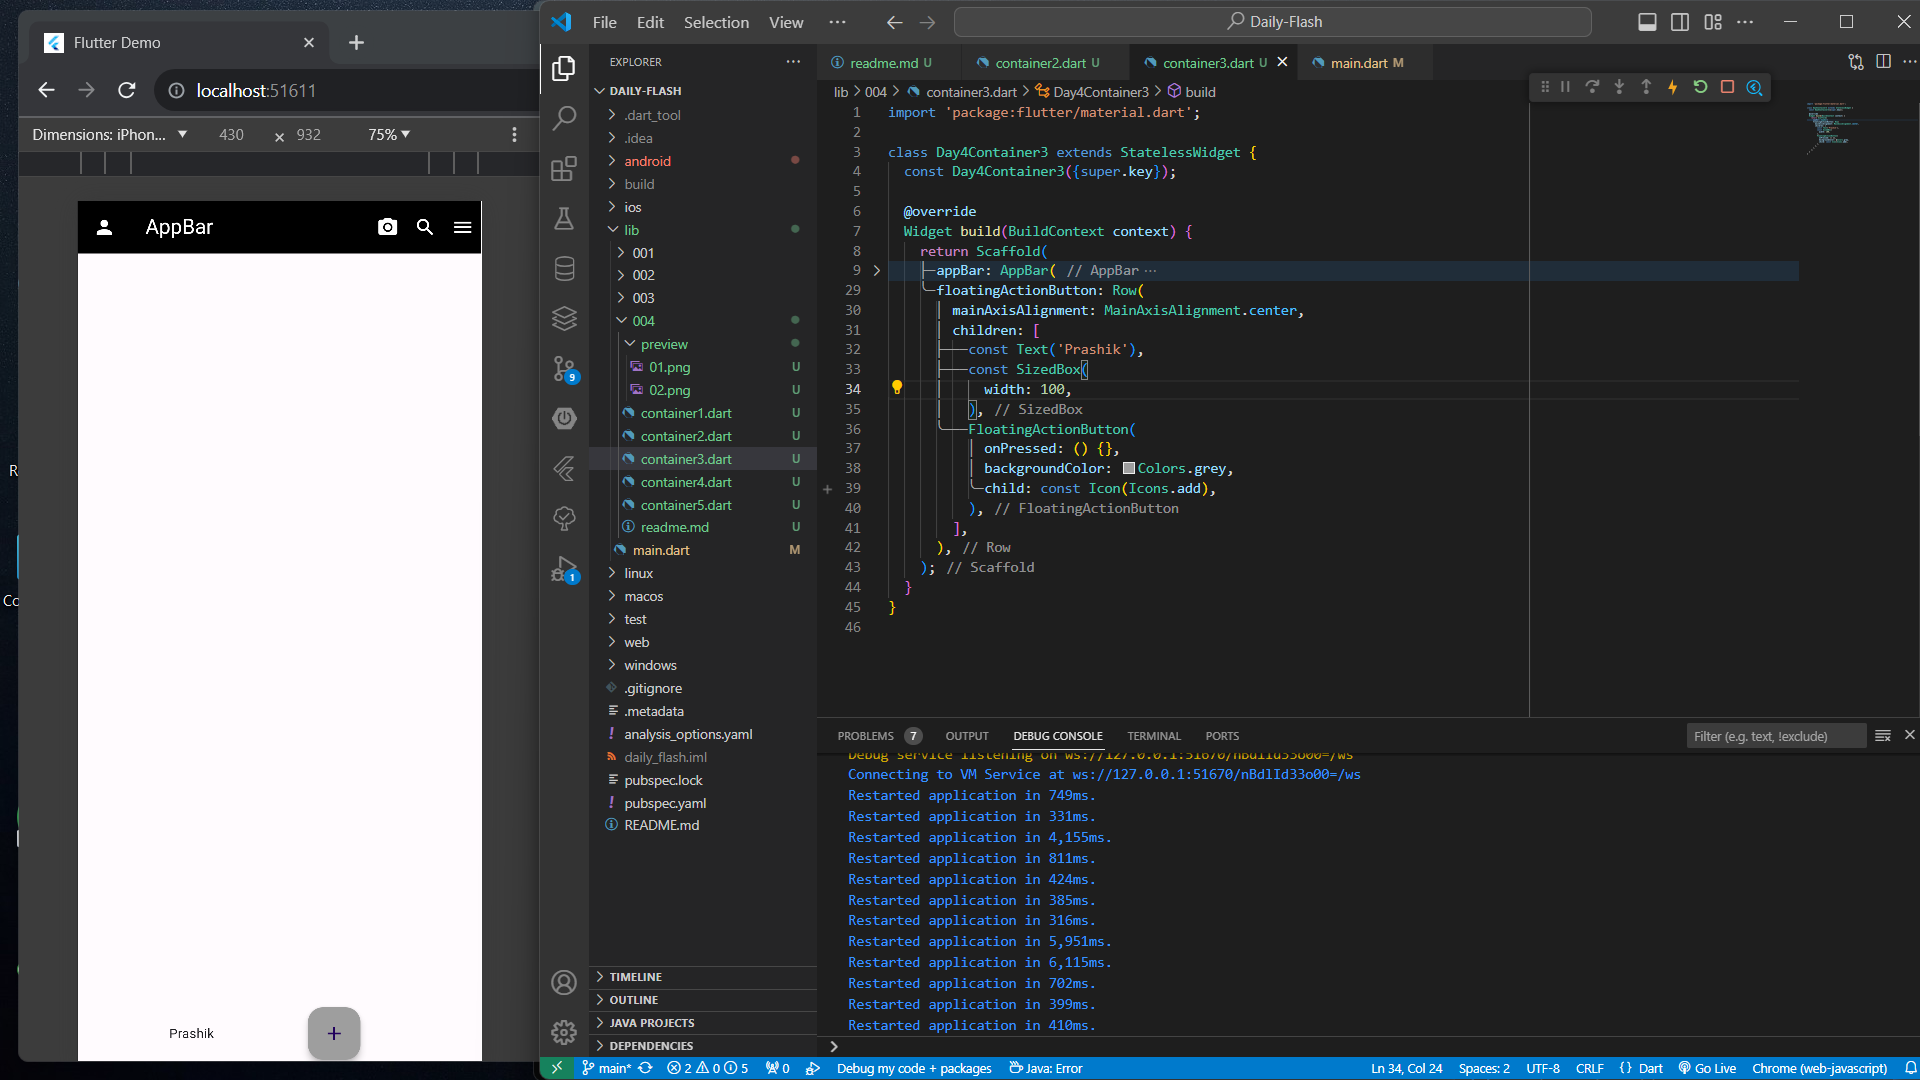
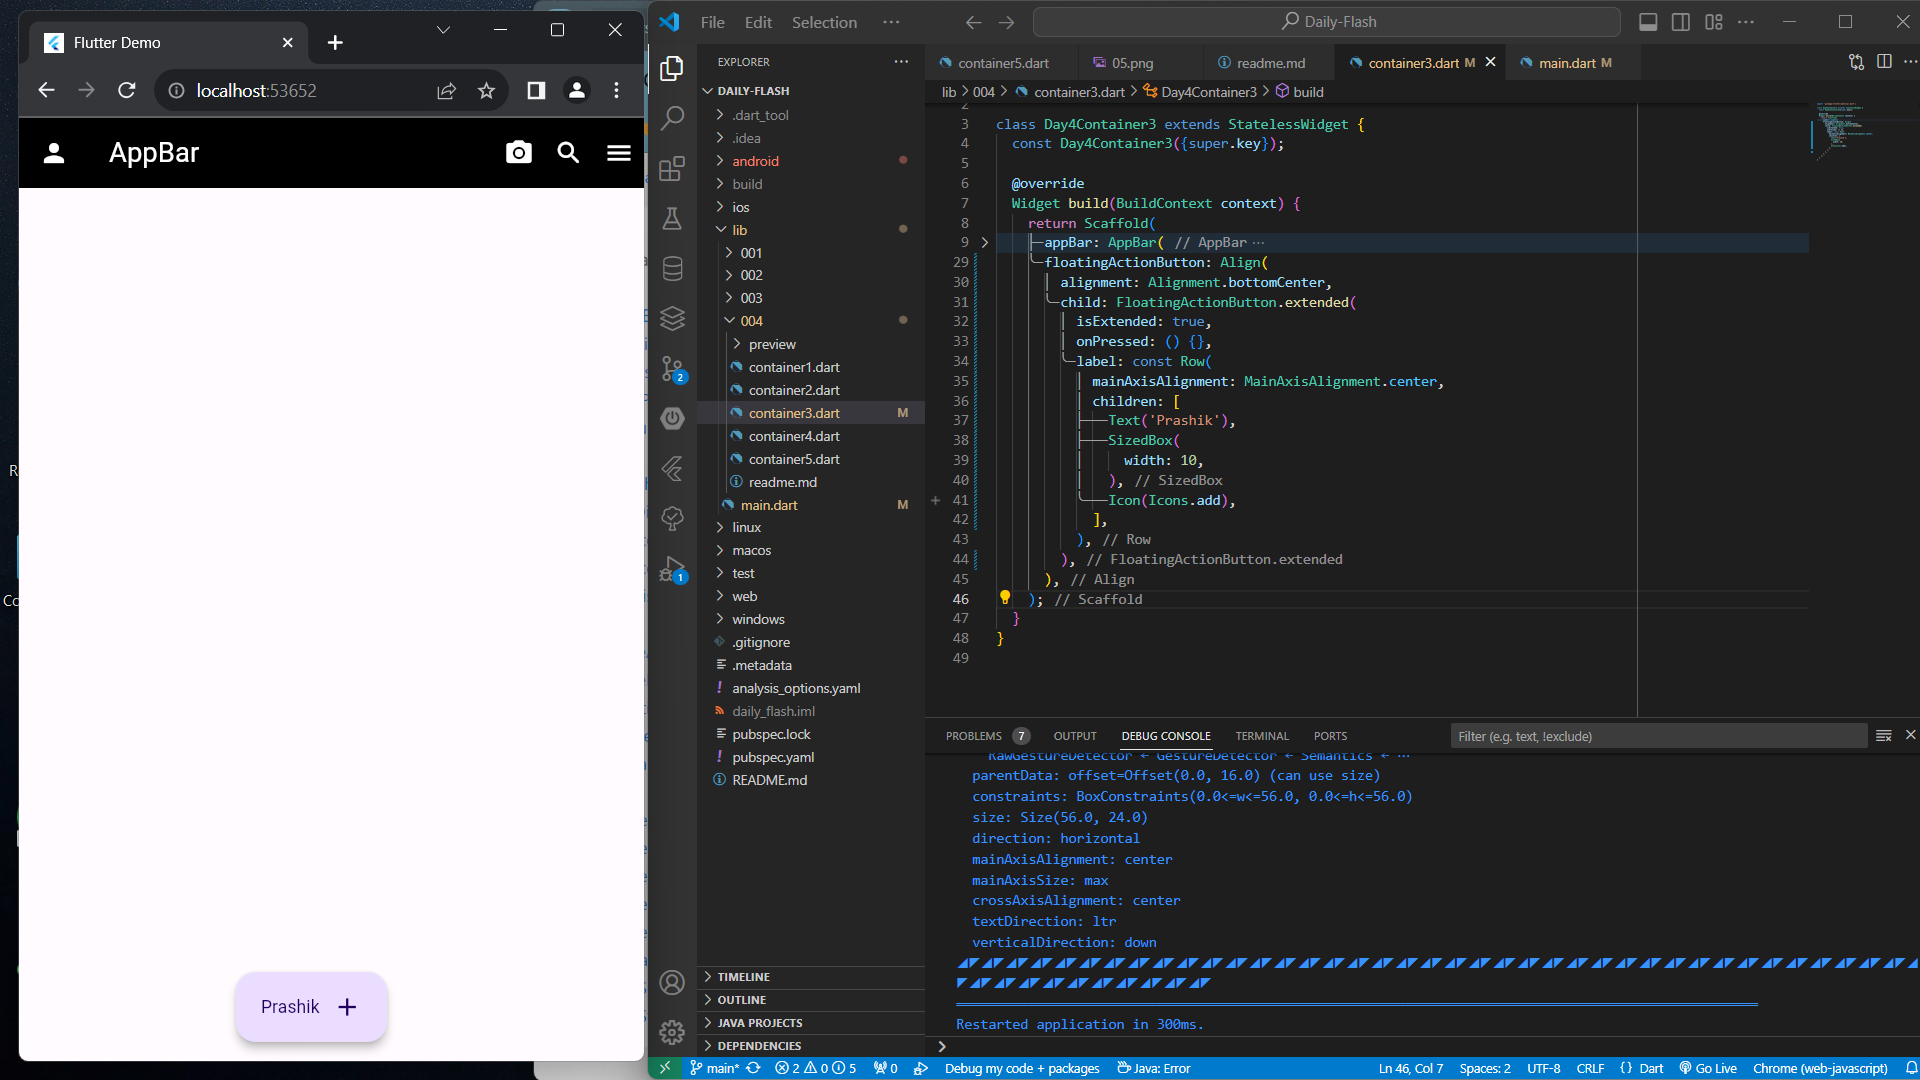
DailyFlash Day 04

diff --git a/lib/004/container3.dart b/lib/004/container3.dart
@@ -26,19 +26,22 @@ class Day4Container3 extends StatelessWidget {
         ],
         leading: const Icon(Icons.person),
       ),
-      floatingActionButton: Row(
-        mainAxisAlignment: MainAxisAlignment.center,
-        children: [
-          const Text('Prashik'),
-          const SizedBox(
-            width: 100,
+      floatingActionButton: Align(
+        alignment: Alignment.bottomCenter,
+        child: FloatingActionButton.extended(
+          isExtended: true,
+          onPressed: () {},
+          label: const Row(
+            mainAxisAlignment: MainAxisAlignment.center,
+            children: [
+              Text('Prashik'),
+              SizedBox(
+                width: 10,
+              ),
+              Icon(Icons.add),
+            ],
           ),
-          FloatingActionButton(
-            onPressed: () {},
-            backgroundColor: Colors.grey,
-            child: const Icon(Icons.add),
-          ),
-        ],
+        ),
       ),
     );
   }

diff --git a/lib/main.dart b/lib/main.dart
@@ -1,5 +1,5 @@
 import 'package:flutter/material.dart';
-import '004/container5.dart';
+import '004/container3.dart';
 
 void main() {
   runApp(const MyApp());
@@ -14,7 +14,7 @@ class MyApp extends StatelessWidget {
       debugShowCheckedModeBanner: false,
       title: 'Flutter Demo',
       theme: ThemeData(),
-      home: const Day4Container5(),
+      home: const Day4Container3(),
     );
   }
 }
